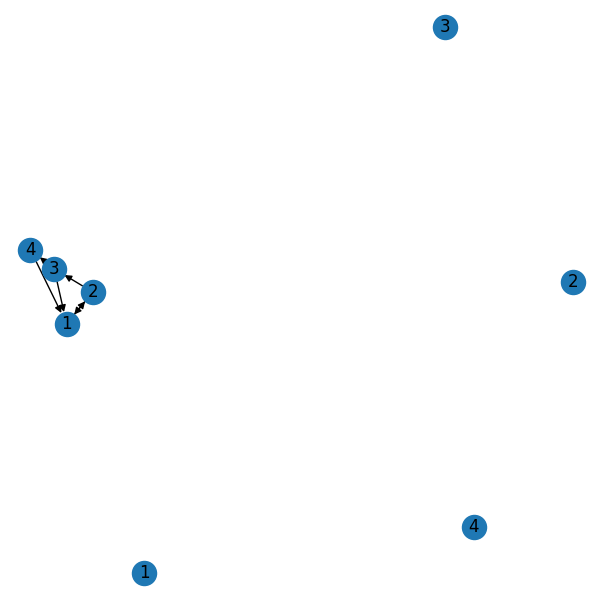
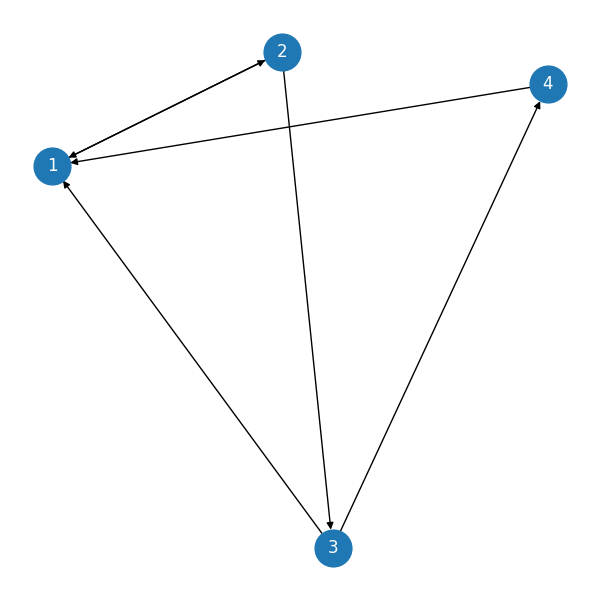
added get methods ofr in/out/all degrees of a node

diff --git a/src/Graph.py b/src/Graph.py
@@ -39,10 +39,8 @@ class Graph:
                 self.AM[startIdx][endIdx] = 1
     
     def networkXGraph(self):
-        usersIDlist = list(loadUsers().keys())
         edgesList = getEdges()
         G = nx.DiGraph()
-        G.add_nodes_from(usersIDlist)
         G.add_edges_from(edgesList)
         return G
     
@@ -50,14 +48,28 @@ class Graph:
         savePath = os.path.join('Data',"graph.png")
         Gx = self.networkXGraph()
         plt.figure(figsize=(6,6))
-        nx.draw_spring(Gx,with_labels=True)
-        plt.title("SocioScope Friendship Graph")
+        nx.draw_spring(Gx,with_labels=True,font_color='white',node_size=700)
         plt.savefig(savePath)
         plt.show()
     
-    def displayM(self):
-        for row in self.AM:
-            print(' '.join(map(str, row)))
+    def displayAM(self):
+        G=self.networkXGraph()
+        print(nx.adjacency_matrix(G))
+    
+    def getInDegreeNode(self,node):
+        G=self.networkXGraph()
+        return dict(G.in_degree)[node]
+    
+    def getOutDegreeNode(self,node):
+        G=self.networkXGraph()
+        return dict(G.out_degree)[node]
+    
+    def getDegreeNode(self,node):
+        G=self.networkXGraph()
+        return dict(G.degree)[node]
+    
+        
 g = Graph()
+print(g.getDegreeNode(1))
 g.displayGraph()
 

diff --git a/src/Analysis.py b/src/Analysis.py
@@ -1,7 +1,7 @@
 # Provides functions for analyzing network statistics (e.g., average number of friends per user, clustering coefficients) and offering recommendations (e.g., friend recommendations).
 from RandomRepeatedFunctionalities import *
 from User import *
-
+from Graph import *
 #TODO: Those functions work but let's implement them via graph class
 def recommendFriendsByAge(id):
     #recommend possible friends for a user based on age difference
